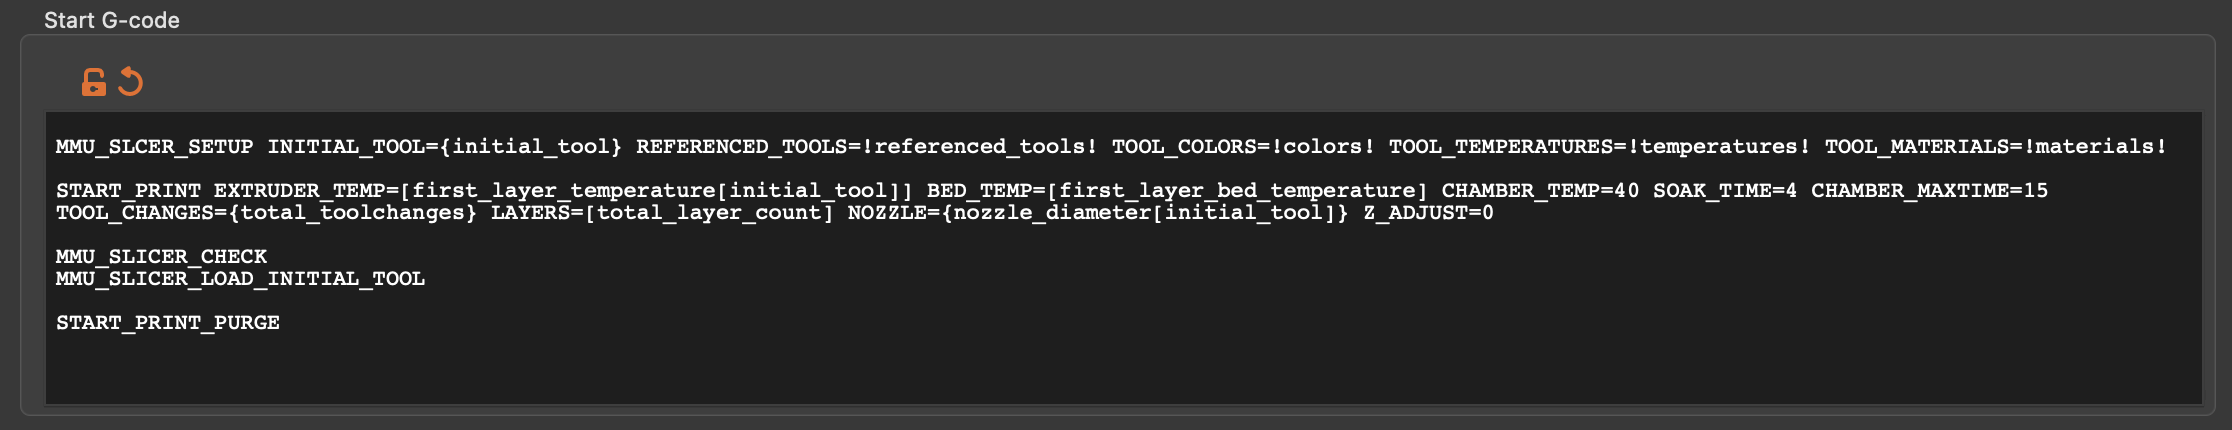
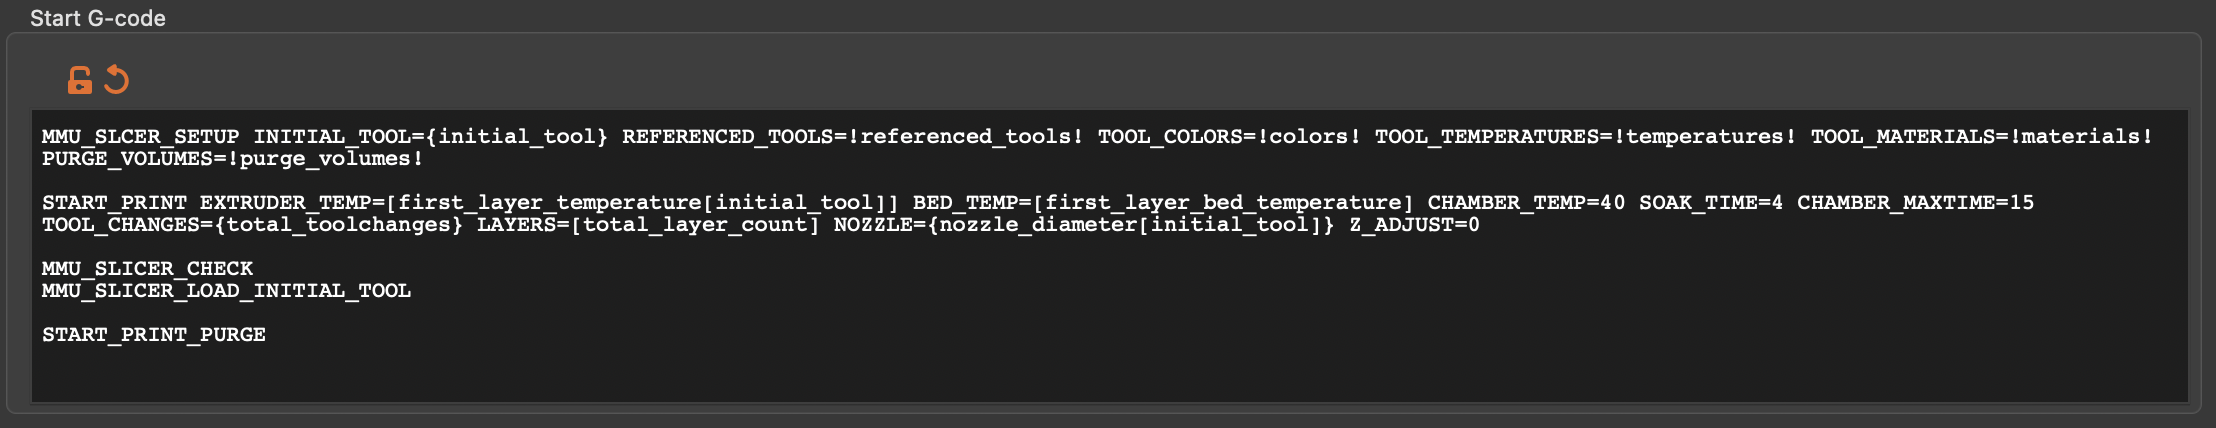
Added intitial doc for purge_placeholders

Changed region(s): [[0.0, 0.243, 0.9964, 0.9416], [0.0, 0.0304, 0.0934, 0.0911], [0.0311, 0.1519, 0.0623, 0.243]]

diff --git a/doc/slicer_setup.md b/doc/slicer_setup.md
@@ -18,7 +18,7 @@ Enter the following into your "custom start g-code" box:
 <img src="/doc/slicer/start_gcode.png" width="100%" alt="Custom Start G-Code"><br>Your `PRINT_START ...` macro is likely to be different from mine! Here is some cut'n'paste text:
 
 ```yml
-MMU_START_SETUP INITIAL_TOOL={initial_tool} REFERENCED_TOOLS=!referenced_tools! TOOL_COLORS=!colors! TOOL_TEMPS=!temperatures! TOOL_MATERIALS=!materials!
+MMU_START_SETUP INITIAL_TOOL={initial_tool} REFERENCED_TOOLS=!referenced_tools! TOOL_COLORS=!colors! TOOL_TEMPS=!temperatures! TOOL_MATERIALS=!materials! PURGE_VOLUMES=!purge_volumes!
 MMU_START_CHECK
 ; call you existing macro here..
 MMU_START_LOAD_INITIAL_TOOL
